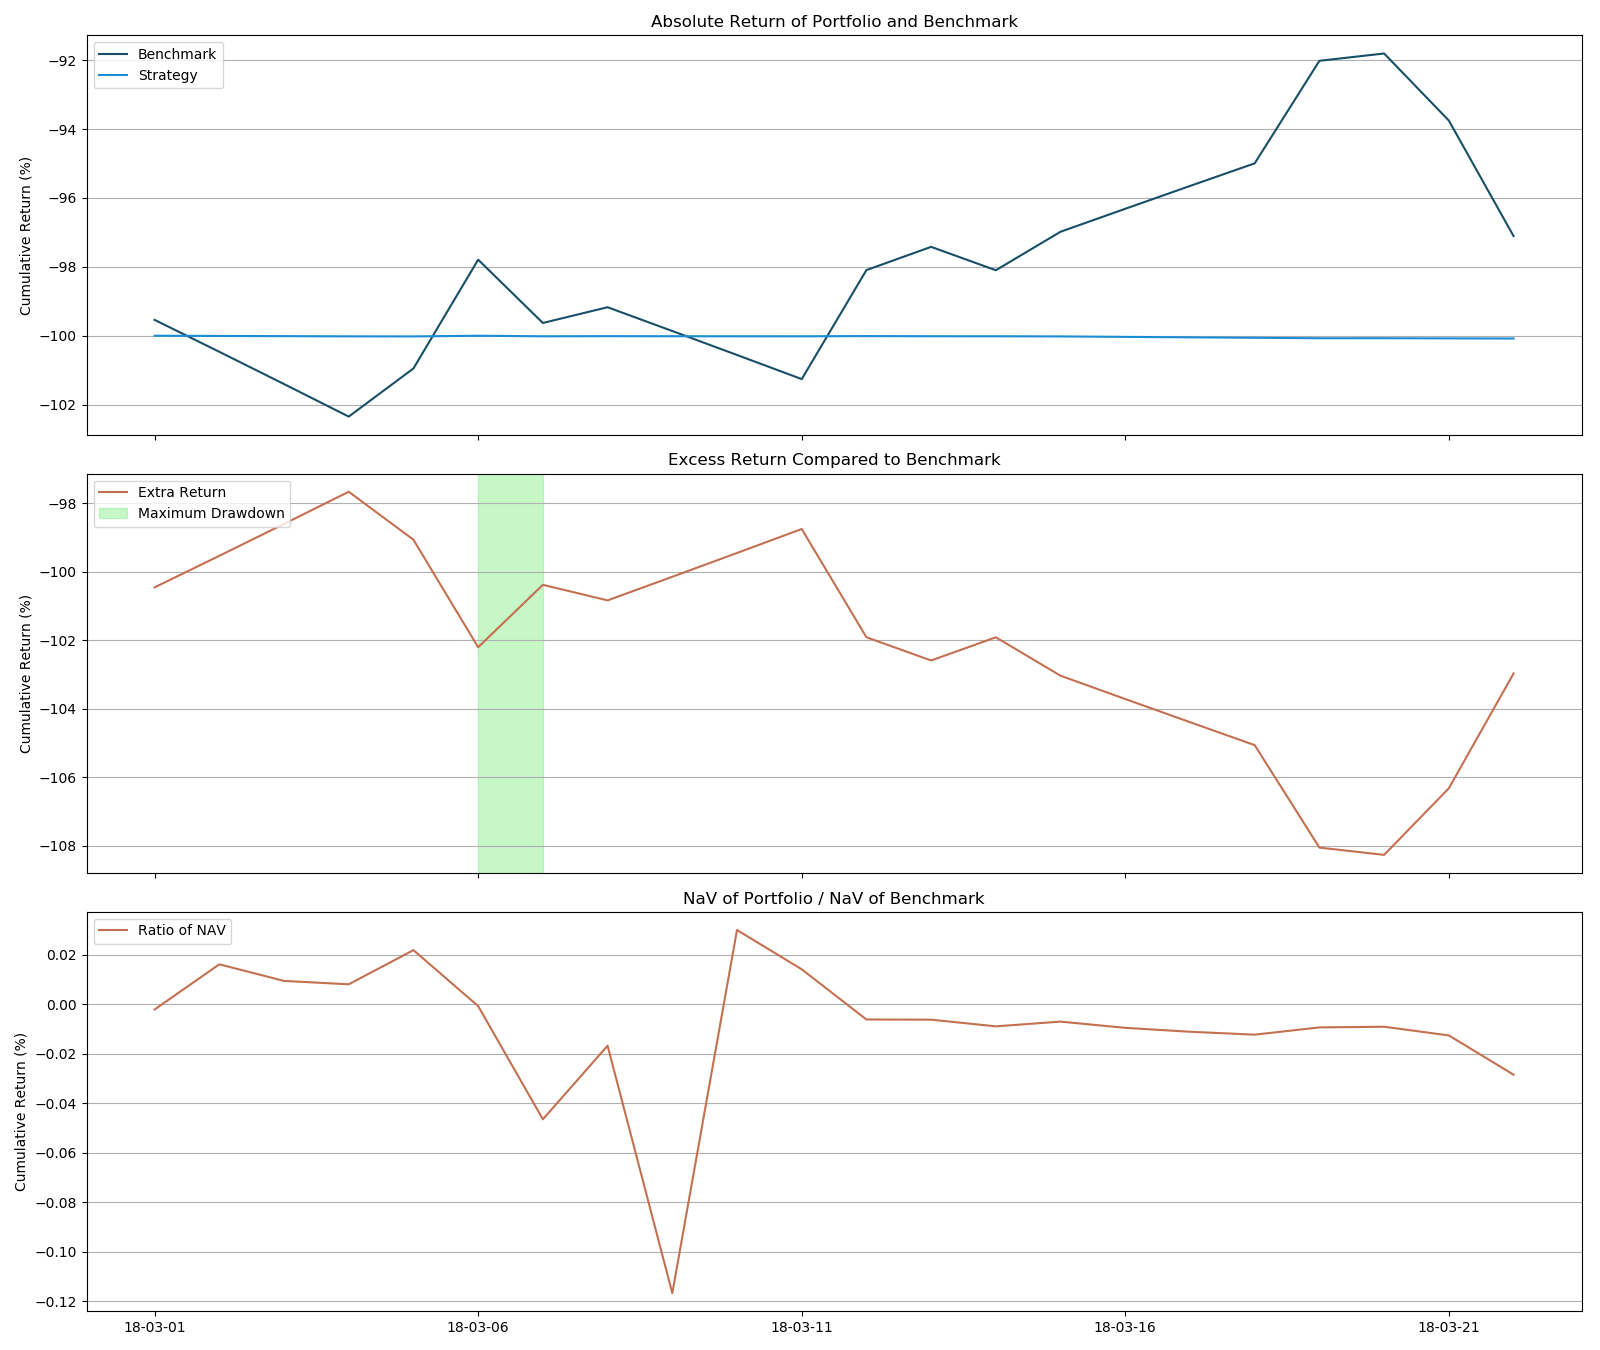
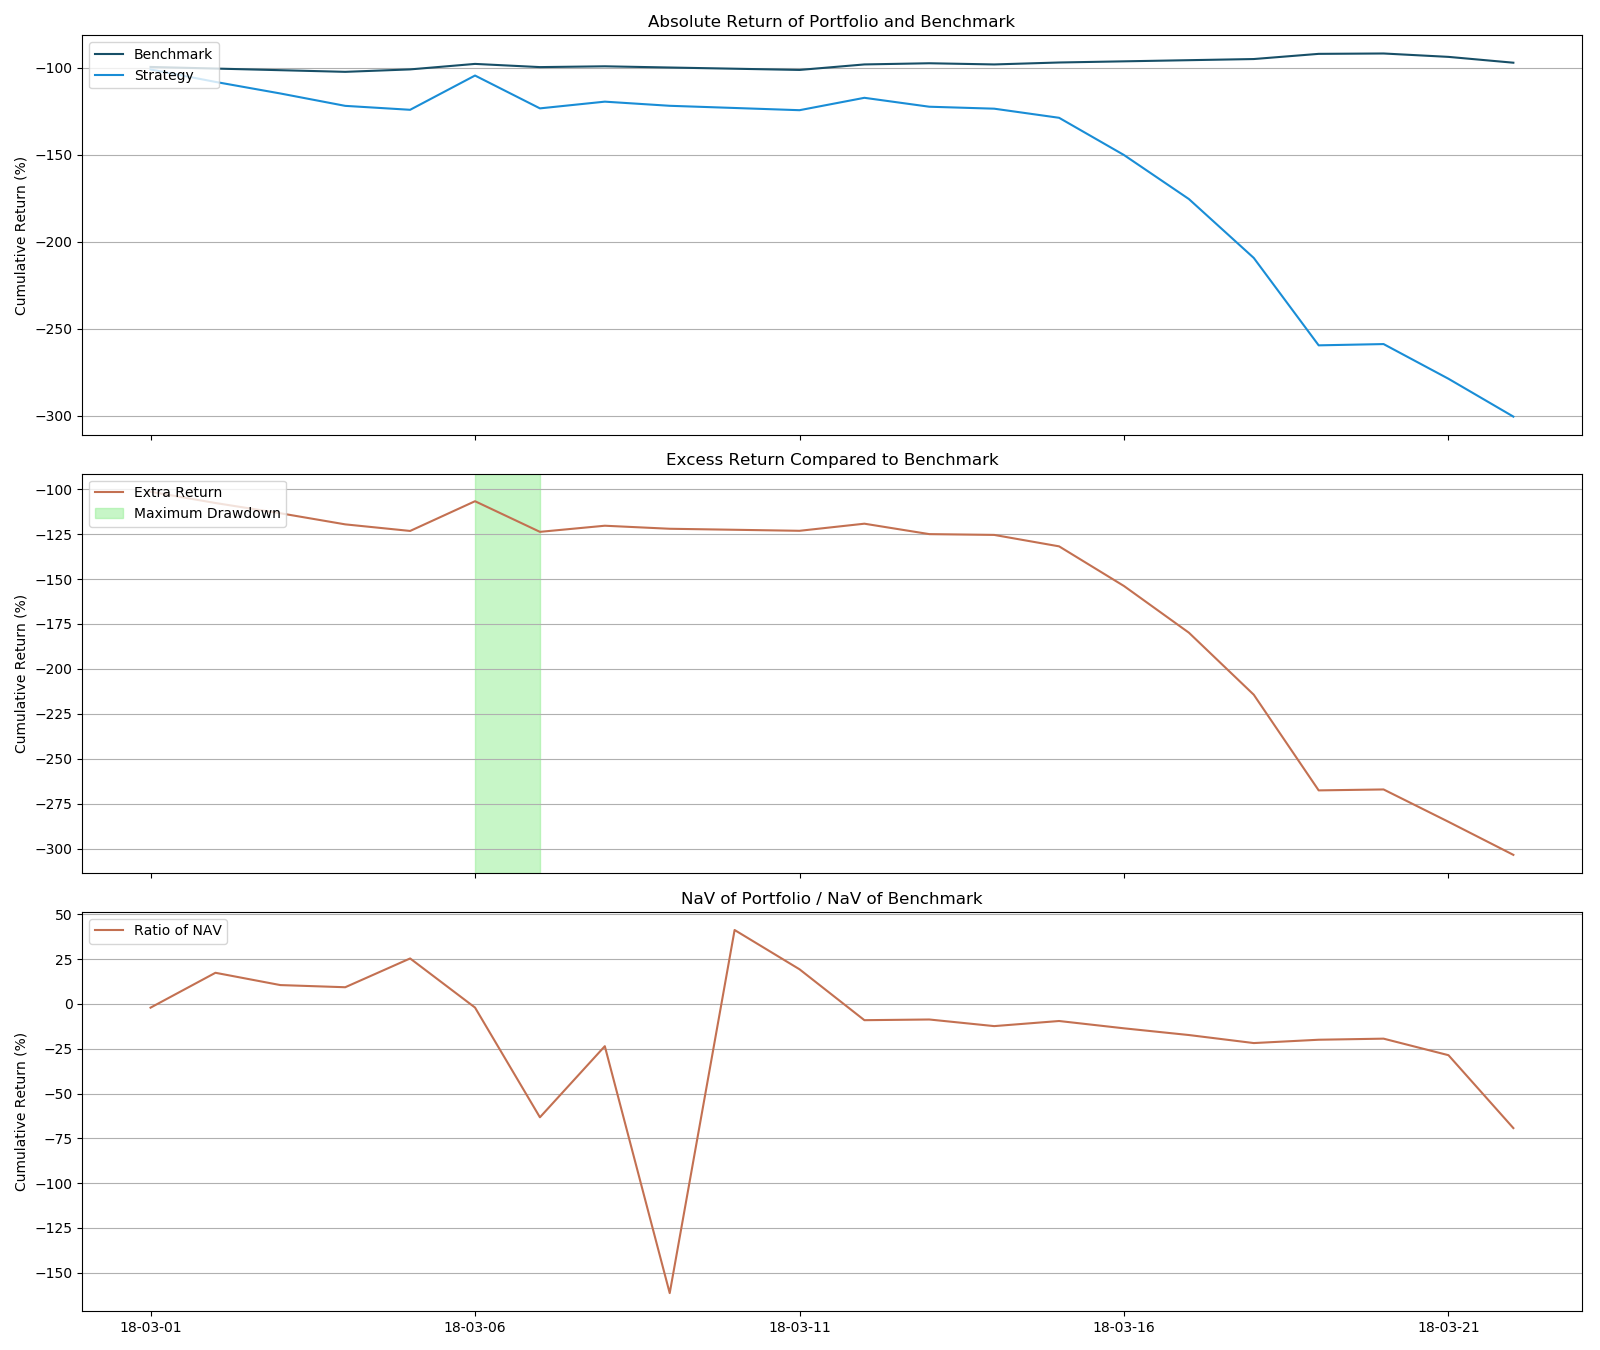
Updated Annual Return Formulas

diff --git a/test_report/report.html b/test_report/report.html
@@ -10,22 +10,22 @@
 <h1 class="main_header">Performance Matrics </h1>
 <div id="risk_index_area" class="index_area"><table><tr><td>Annual Return</td>
 <span></span>
-<td>-0.013642978905737195</td>
+<td>-2.0651242259881384</td>
 <br />
 </tr>
 <tr><td>Benchmark Annual Return</td>
 <span></span>
-<td>0.4801461887133766</td>
+<td>0.3686488458290498</td>
 <br />
 </tr>
 <tr><td>Beta</td>
 <span></span>
-<td>0.3265359613462628</td>
+<td>0.12554212882981777</td>
 <br />
 </tr>
 <tr><td>Sharpe Ratio</td>
 <span></span>
-<td>-183.0325667474214</td>
+<td>-0.9103023934266908</td>
 <br />
 </tr>
 <tr><td>Max Retrace</td>
@@ -35,12 +35,12 @@
 </tr>
 <tr><td>Portfolio Volatility</td>
 <span></span>
-<td>7.453853239442374e-05</td>
+<td>2.3125548621966465</td>
 <br />
 </tr>
 <tr><td>Benchmark Volatility</td>
 <span></span>
-<td>0.015736594590390052</td>
+<td>0.24881740760158516</td>
 <br />
 </tr>
 </table>

diff --git a/Analyzer/analyze.py b/Analyzer/analyze.py
@@ -1,4 +1,5 @@
 #coding=utf-8
+import os
 import numpy as np
 import pandas as pd
 from datetime import datetime as dt
@@ -9,6 +10,8 @@ from matplotlib.ticker import Formatter
 from pyh import *
 
 TO_PCT = 100.0
+#set global params
+BEN_RATE = 0.04 #risk-free rate
 
 class MyFormatter(Formatter):
     def __init__(self, dates, fmt='%Y%m'):
@@ -87,22 +90,25 @@ class StockAnalyzer(Analyzer):
             self._save_path = save_path
         else:
             self._save_path = save_path + '/'
-        times = start_date.split('-')
-        self._date_sequence.append(pd.Timestamp(dt(int(times[0]), int(times[1]), int(times[2])) + tdelta(days=-1)))
         self._start_date = pd.Timestamp(start_date)
         self._end_date = pd.Timestamp(end_date)
-        self._period = int(str(self._end_date - self._start_date).split(' ')[0]) + 1
+        times = start_date.split('-')
+        self._date_sequence.append(pd.Timestamp(dt(int(times[0]), int(times[1]), int(times[2])) + tdelta(days=-1)))
+        for date in pd.date_range(self._start_date, self._end_date, freq='D'):
+            date_str = str(date).split(' ')[0]
+            if self._has_date(date_str):
+                self._date_sequence.append(date_str)
+        self._period = len(self._date_sequence) - 1
         self._total_capital = capital
         self._benchmark = benchmark
 
+    def _has_date(self, date):
+        return os.path.exists(self._data_path + date + '_trades.csv')
+
     def _get_daily_data(self, date):
-        try:
-            self._daily_positions = pd.read_csv(self._data_path + date + '_position.csv')
-            self._daily_trades = pd.read_csv(self._data_path + date + '_trades.csv')
-            self._daily_prices = pd.read_csv(self._data_path + date + '_price.csv')
-        except:
-            return False
-        return True
+        self._daily_positions = pd.read_csv(self._data_path + date + '_position.csv')
+        self._daily_trades = pd.read_csv(self._data_path + date + '_trades.csv')
+        self._daily_prices = pd.read_csv(self._data_path + date + '_price.csv')
 
     def _preprocess_daily_data(self):
         #step 1 remove irrelevant columns
@@ -174,8 +180,8 @@ class StockAnalyzer(Analyzer):
         return self._accum_return[-1] + ret
 
     def _cal_annual_return(self):
-        #[（投资内收益 / 本金）/ 投资天数] * 365 ×100%
-        return (self._accum_return[-1] / self._period) * 365
+        # portfolio annual return formula: ((1 + p)**(250/n) - 1)
+        return (1 + self._accum_return[-1]) ** (250/self._period) - 1
 
     def _cal_benchmark_return(self, pnl):
         return pnl / (self._total_capital + self._accum_benchmark_pnl[-1])
@@ -184,7 +190,8 @@ class StockAnalyzer(Analyzer):
         return self._accum_benchmark_return[-1] + ret
 
     def _cal_benchmark_annual_return(self):
-        return (self._accum_benchmark_return[-1] / self._period) * 365
+        # benchmark annual return formula: ((1 + p)**(250/n) - 1)
+        return (1 + self._accum_benchmark_return[-1]) ** (250 / self._period) - 1
 
     def _cal_excess_accum_return(self):
         return self._accum_return[-1] - self._accum_benchmark_return[-1]
@@ -209,27 +216,26 @@ class StockAnalyzer(Analyzer):
         return pivot, start, end
 
     def _cal_portfolio_volatility(self):
-        return np.std(np.array(self._daily_return))
+        # portfolio volatility formula: sqrt(250) * stddev(daily_return)
+        return np.std(np.array(self._daily_return)) * np.sqrt(250)
 
     def _cal_benchmark_volatility(self):
-        return np.std(np.array(self._benchmark_return))
+        # portfolio volatility formula: sqrt(250) * stddev(benchmark_return)
+        return np.std(np.array(self._benchmark_return)) * np.sqrt(250)
 
     def _cal_beta(self):
         return np.corrcoef(self._benchmark_return, self._daily_return)[0, 1]
 
+    def _cal_alpha(self):
+        return self._annual_return - (BEN_RATE + self._beta(self._benchmark_annual_return - BEN_RATE))
+
     def _cal_sharpe_ratio(self):
-        return (self._annual_return / self._cal_portfolio_volatility())
+        return ((self._annual_return - BEN_RATE) / self._cal_portfolio_volatility())
 
     def analyze(self):
-        time_sequence = pd.date_range(self._start_date, self._end_date, freq='D')
-        #print time_sequence
         first_day = True
-        for date in time_sequence:
-            #print date
-            date_str = str(date).split(' ')[0]
-            if not self._get_daily_data(date_str):
-                continue
-            self._date_sequence.append(date_str)
+        for date in self._date_sequence[1:]:
+            self._get_daily_data(date)
             self._preprocess_daily_data()
             if first_day:
                 self._benchmark_price = self._daily_prices.loc[self._benchmark]['pre_close_price']
@@ -257,6 +263,8 @@ class StockAnalyzer(Analyzer):
             self._accum_benchmark_return.append(accum_benchmark_return)
             excess = self._cal_excess_accum_return()
             self._excess_accum_return.append(excess)
+
+        #calculate risk matrics
         self._max_retrace, self._max_retrace_start, self._max_retrace_end = self._cal_max_retrace()
         self._annual_return = self._cal_annual_return()
         self._benchmark_annual_return = self._cal_benchmark_annual_return()

diff --git a/example.py b/example.py
@@ -5,7 +5,7 @@ from Analyzer import *
 #get data and analyze
 sa = StockAnalyzer()
 #initialize with test saving path
-sa.init_by_config('2018-03-01', '2018-03-22', 1000000, 600208, 'test_data/', 'test_output/')
+sa.init_by_config('2018-03-01', '2018-03-22', 1000, 600208, 'test_data/', 'test_output/')
 sa.analyze()
 
 #get context for plotting
